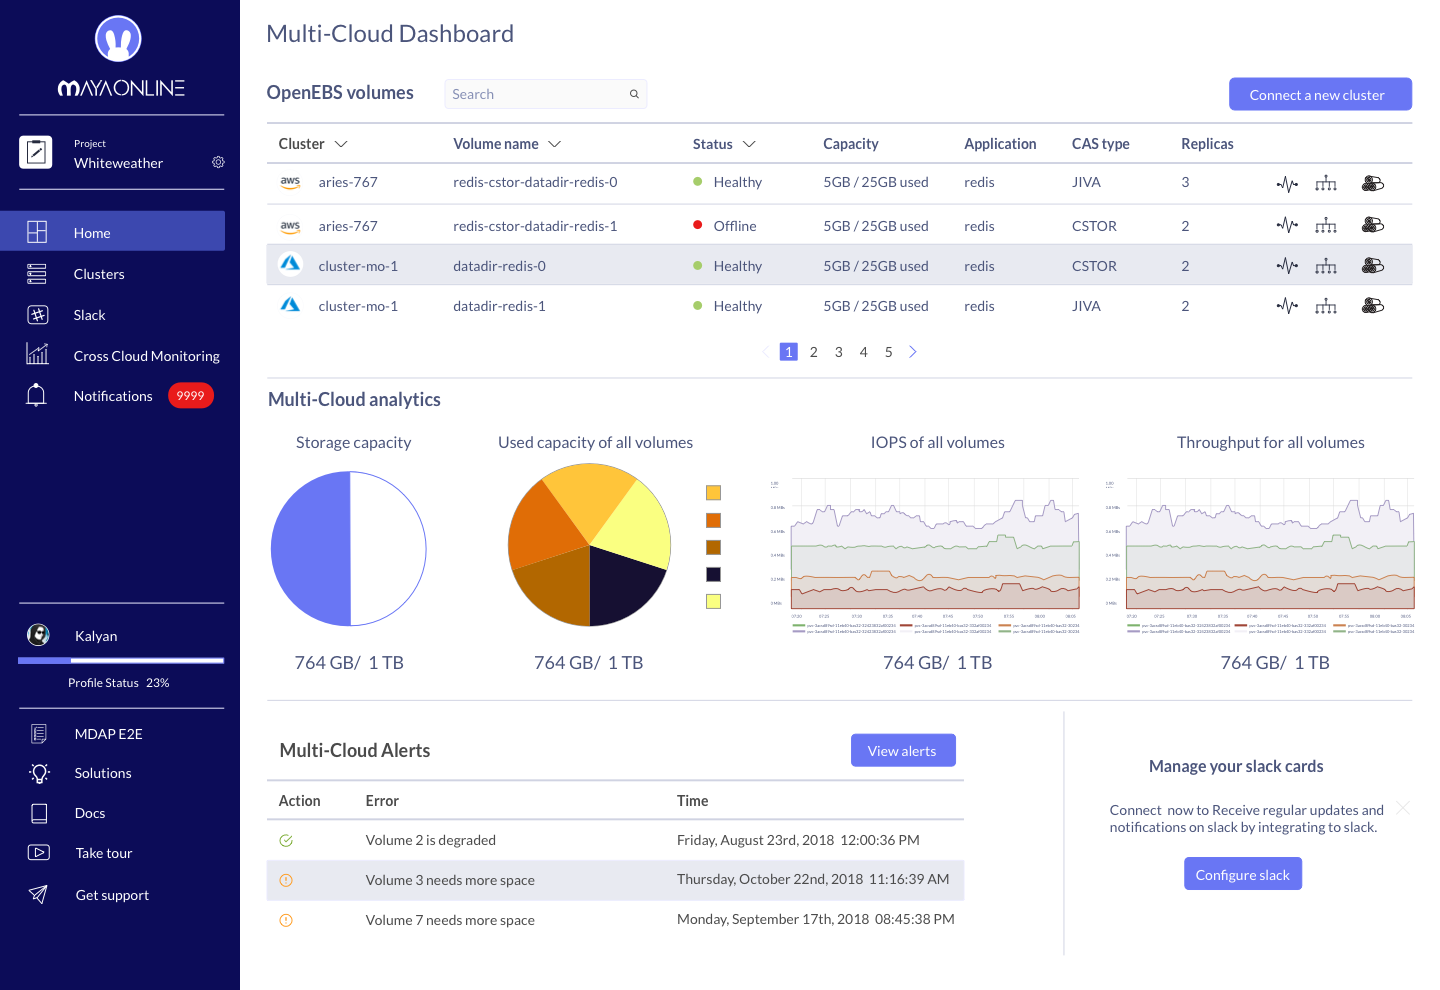
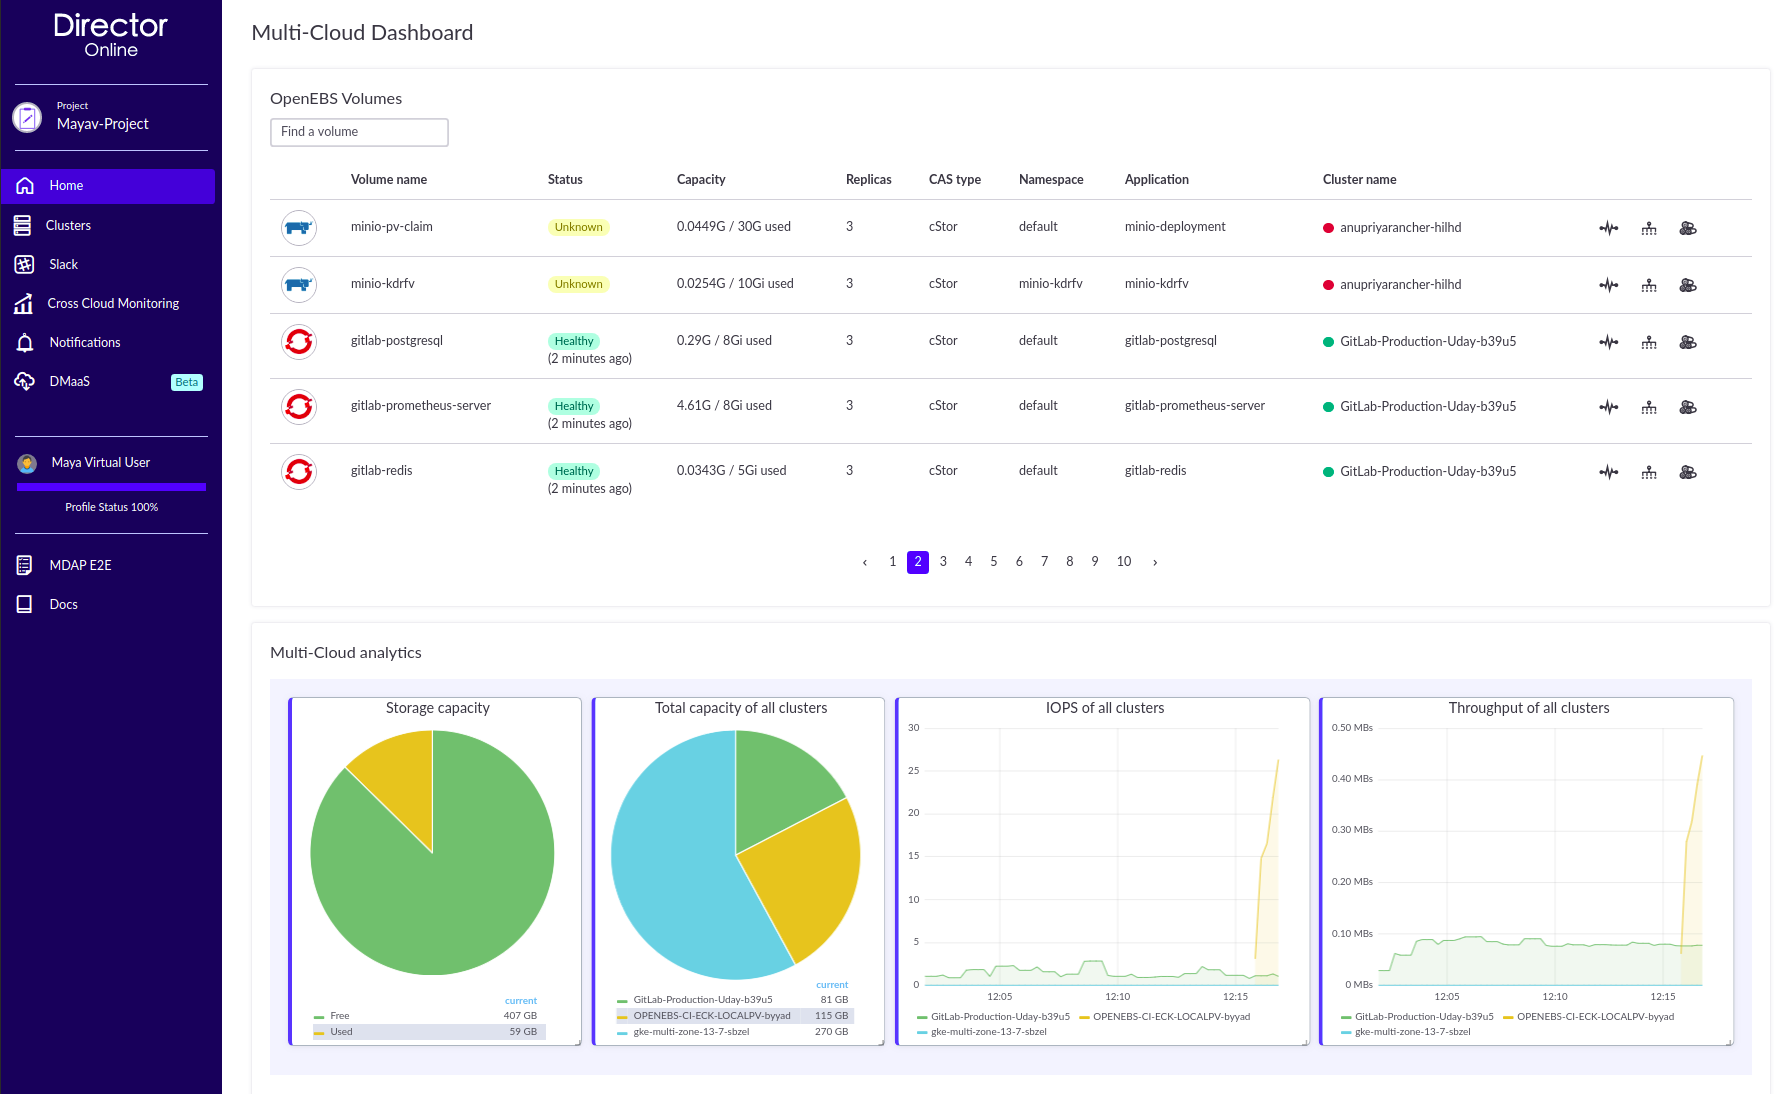
Update MayaOnline Page
Updated all mayaonline images with Director Online in mayaonline page
Updated sidebar for updating id of mayaonline page.
Updated link to join slack community.

diff --git a/docs/mayaonline.md b/docs/mayaonline.md
@@ -1,5 +1,5 @@
 ---
-id: mayaonline
+id: directoronline
 title: Connecting OpenEBS to Director Online
 sidebar_label: Director Online
 ---
@@ -25,7 +25,7 @@ Users get access to Prometheus metrics, logs and topology view of OpenEBS volume
 
 - Installation of Director Online agents happen into `maya-system` namespace. On an average, the agents consume around 500mi node memory and 300-400m node cpu per node. 
 
-- Users can in general connect any Kubernetes cluster versioned above 1.10.x to Director Online and OpenShift versioned above 3.x. If you are facing troubles connecting your Kubernetes cluster, report the details in the <a href="<https://openebs.org/community>" target="_blank">Slack OpenEBS Community</a> .
+- Users can in general connect any Kubernetes cluster versioned above 1.10.x to Director Online and OpenShift versioned above 3.x. If you are facing troubles connecting your Kubernetes cluster, report the details in the <a href="<https://openebs.io/join-our-slack-community" target="_blank">Slack OpenEBS Community</a> .
 
 - Users need to authenticate to Director Online using their GitHub/Google credentials or with Local authenticaltion.
 
@@ -35,12 +35,12 @@ Users get access to Prometheus metrics, logs and topology view of OpenEBS volume
 
 ## Installing Director Online agents on Kubernetes
 
-1. Sign up at MayaData [accout portal](https://account.mayadata.io/) using GitHub/Google credentials or with Local authenticaltion .
-2. Click on `Go to Director Online` from portal page.  
-3. Create a project and choose the Kubernetes platform.
+1. Sign up at MayaData [account portal](https://account.mayadata.io/) using GitHub/Google credentials or with Local authentication .
+2. Click on **Go to Director Online** from portal page.  
+3. Create a project for the first time and choose the Kubernetes platform.
 4. Copy the kubectl command that is presented and run it in your Kubernetes environment.
 
-Once your cluster is connected to Director Online, start exploring stateful applications and OpenEBS storage running in your cluster.  
+Once your cluster is connected to Director Online, start exploring stateful applications and OpenEBS storage which are running in your cluster.  
 
 <br><br>
 

diff --git a/docs/support.md b/docs/support.md
@@ -9,13 +9,13 @@ sidebar_label: Support
 
 ## Slack
 
-The OpenEBS team hangs out on Slack in the `#openebs-users` channel. To participate in discussions with the OpenEBS team go to <a href="https://openebs.org/community" target="_blank">Slack OpenEBS Community</a>
+The OpenEBS team hangs out on Slack in the `#openebs-users` channel. To participate in discussions with the OpenEBS team go to <a href="https://openebs.io/join-our-slack-community" target="_blank">Slack OpenEBS Community</a>
 
-Slack requires registration, but the OpenEBS team welcomes anyone to register at <a href="https://openebs.org/community" target="_blank">Slack OpenEBS Community</a>
+Slack requires registration, but the OpenEBS team welcomes anyone to register at <a href="https://openebs.io/join-our-slack-community" target="_blank">Slack OpenEBS Community</a>
 
 ## MayaOnline
 
-All community users by default are subscribed to a free plan on <a href="https://mayaonline.io/" target="_blank">MayaOnline</a>. Enterprise support comes with various support subscription plans.
+All community users by default are subscribed to a free plan on <a href="https://director.mayadata.io/" target="_blank">Director Online</a>. Enterprise support comes with various support subscription plans.
 
 
 
